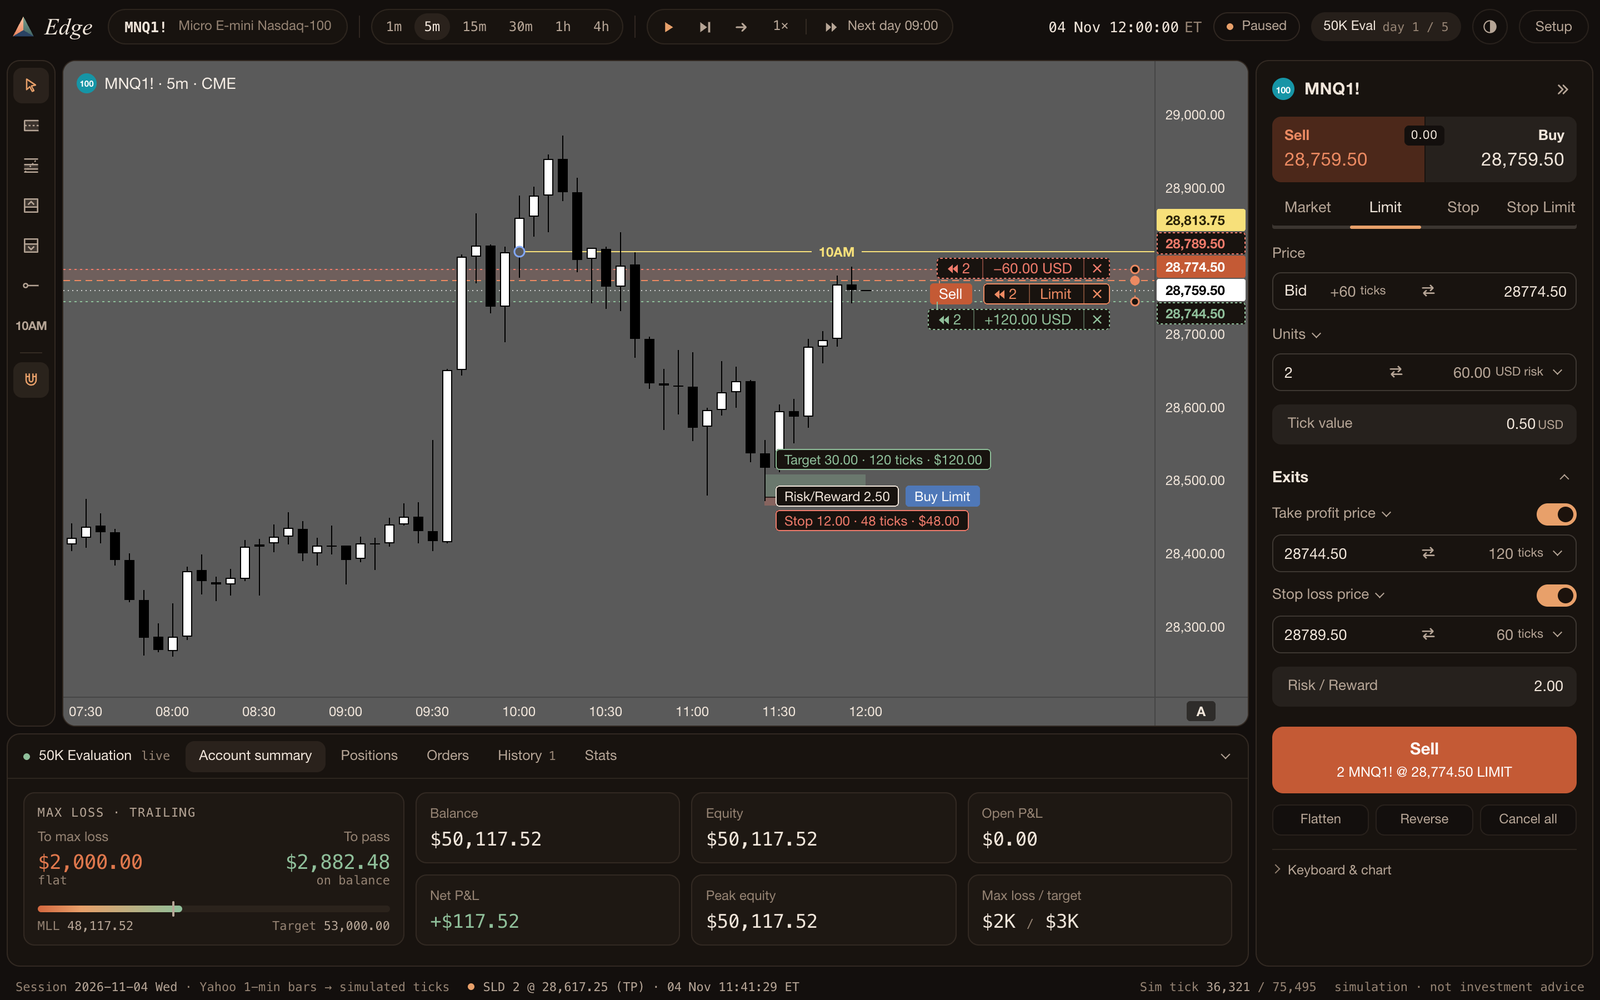
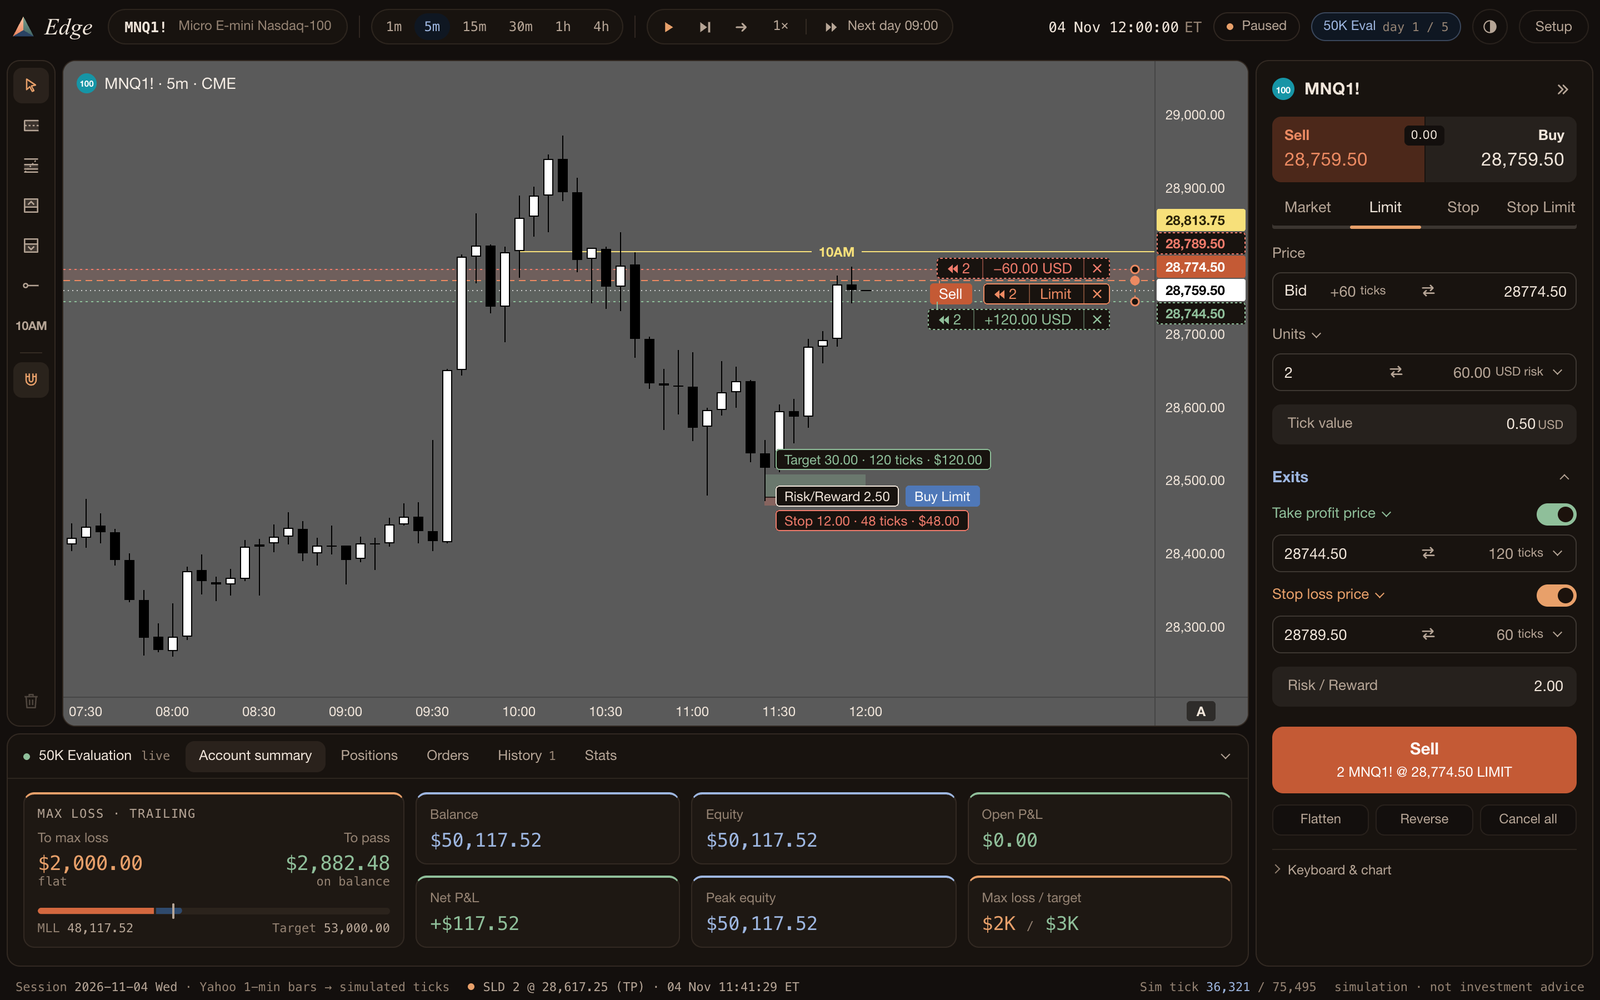
Edge 1.2: new start screen, colours, screenshots

diff --git a/README.md b/README.md
@@ -15,14 +15,15 @@
 ## Features
 
 - **Tick-by-tick replay** of MNQ and MES: every candle forms print by print, so you watch the wicks being made while you trade.
-- **Backtest a timespan**: 1 day, 1 week, 2 weeks, 1 month or any custom range, picked on a calendar. The replay runs day after day until the span ends.
+- **Backtest a timespan**: 1 day, 1 week, 2 weeks, 1 month or any range: drag across the calendar, drag the handles on the timeline of your cached sessions, or nudge it with ← →. The replay runs day after day until the span ends.
 - **Speed 1× to 60×**: play, pause, step one tick, jump to the next candle, or **skip to the next day 09:00**. Orders, brackets and the drawdown still run through every skipped tick.
 - **Prop-firm evaluations** for 25K, 50K and 100K accounts (or custom): a **trailing intraday max loss limit (MLL)** and a **pass target**, checked on every tick, with a clear **Passed** or **Blown** result.
 - **TradingView-style order panel**: Sell | Buy, Market · Limit · Stop · Stop Limit, units or **USD risk**, take profit and stop loss in price or ticks, risk / reward.
 - **Projected order on the chart**, just like TradingView: drag it and its TP / SL into place, then click its Buy / Sell pill to send it. Every order, TP and SL is a line you can drag, with × to cancel.
-- **Drawing tools**: long and short **position tools** (risk / reward, one click to place the trade), rejection block, OTE fib, the **10AM line** and a horizontal ray. Hold **⌘** to snap to the candle.
+- **Drawing tools**: long and short **position tools** (risk / reward, one click to place the trade), rejection block, OTE fib, the **10AM line** and a horizontal ray. Hold **⌘** to snap to the candle; one button removes them all.
 - **Timeframes** 1m · 5m · 15m · 30m · 1h · 4h, all forming tick by tick. Free panning in every direction, scroll to zoom time, independent price and time scales.
-- **Dark or Cream, Mono or Heat**: four colour schemes. On macOS the Dock icon follows the palette.
+- **Dark or Cream, Mono or Heat**: four colour schemes, with terracotta, sage and slate telling the parts of the screen apart (all white in Mono). Your own **chart colours** if you want them.
+- **App icon**: Default, Mono, Heat or match the palette. On macOS it stays after you quit.
 - **Account manager**: balance, equity, P&L, the MLL and the target, positions, orders, history and stats.
 - **Free data**: Yahoo Finance 1-minute bars, cached on your computer, plus **CSV import** of your own bars or real ticks
   (TradingView, Databento, NinjaTrader and generic formats).
@@ -36,9 +37,11 @@
 | **Cream · Heat** | **Cream · Mono** |
 | ![Cream Heat](images/edge-light-heat.png) | ![Cream Mono](images/edge-light-mono.png) |
 
-**New backtest:** market, timespan on a calendar, account rules and replay settings.
+**New backtest:** market, timespan, account rules and replay settings.
 
-![New backtest](images/setup.png)
+| Heat | Mono |
+|---|---|
+| ![New backtest, Heat](images/setup.png) | ![New backtest, Mono](images/setup-mono.png) |
 
 **Drawing tools:** position tools with risk / reward and a button to place the trade, the 10AM line, rays, rejection block and OTE.
 
@@ -48,6 +51,12 @@
 
 **Order panel:** the TradingView order panel. Pick a side, an order type, the size in contracts or USD risk, and the exits.
 The chart shows the order before you send it.
+
+<br clear="right">
+
+<img src="images/appearance.png" width="300" align="right" alt="Appearance menu">
+
+**Appearance:** mode, palette, app icon and chart colours, all in one place.
 
 <br clear="right">
 
